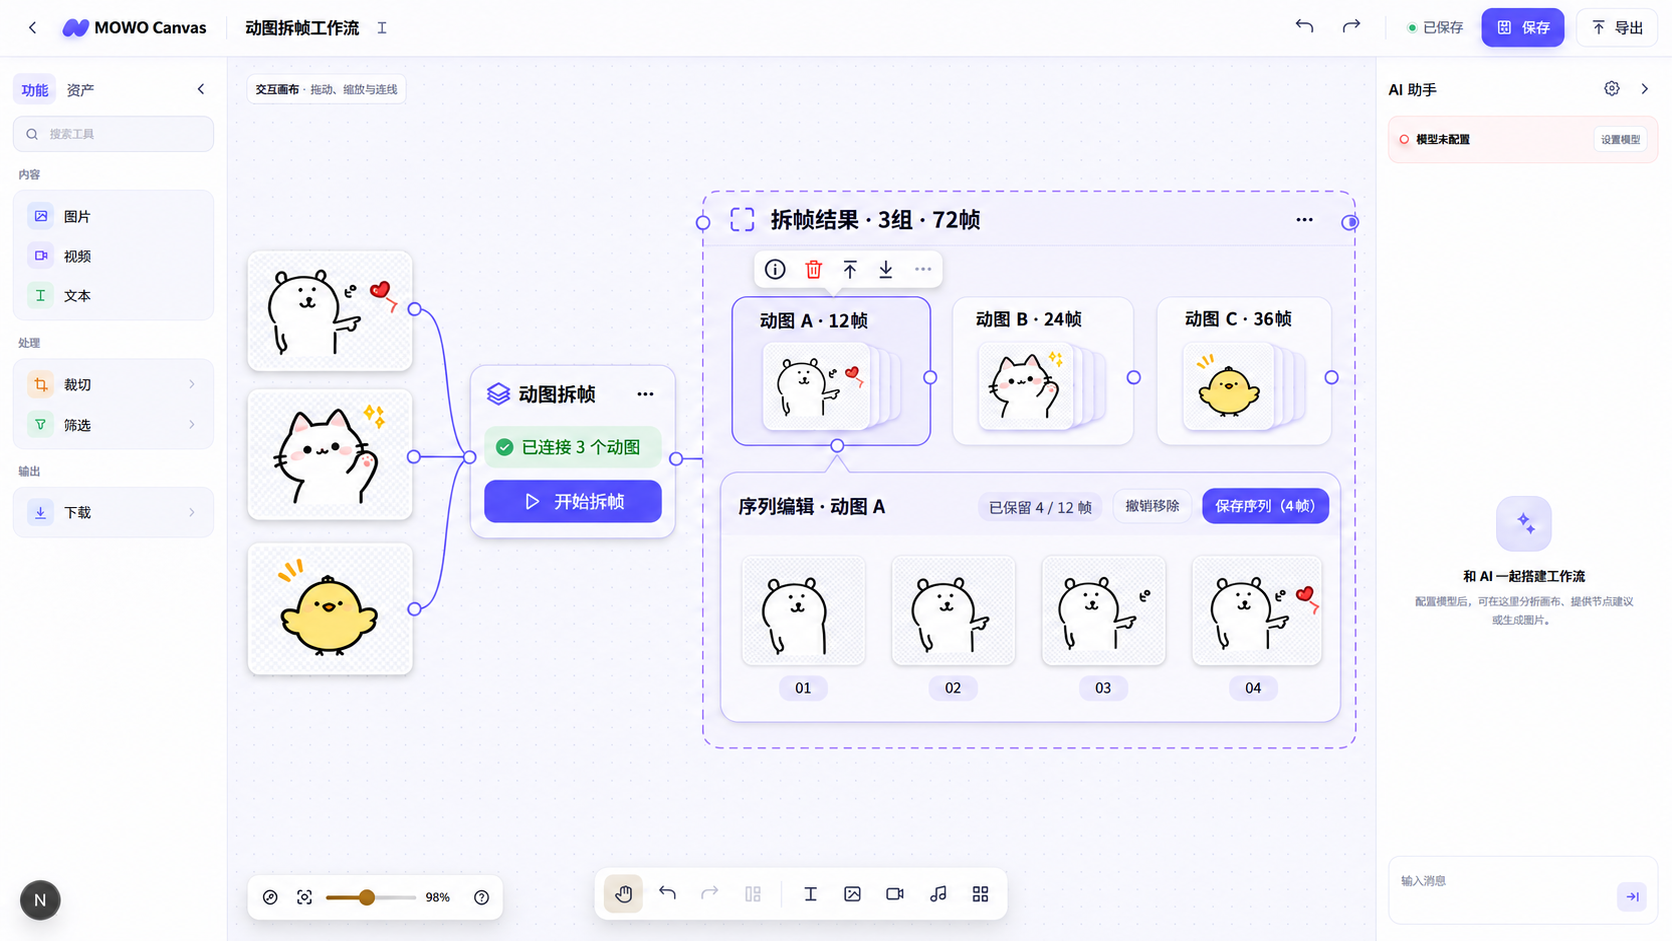
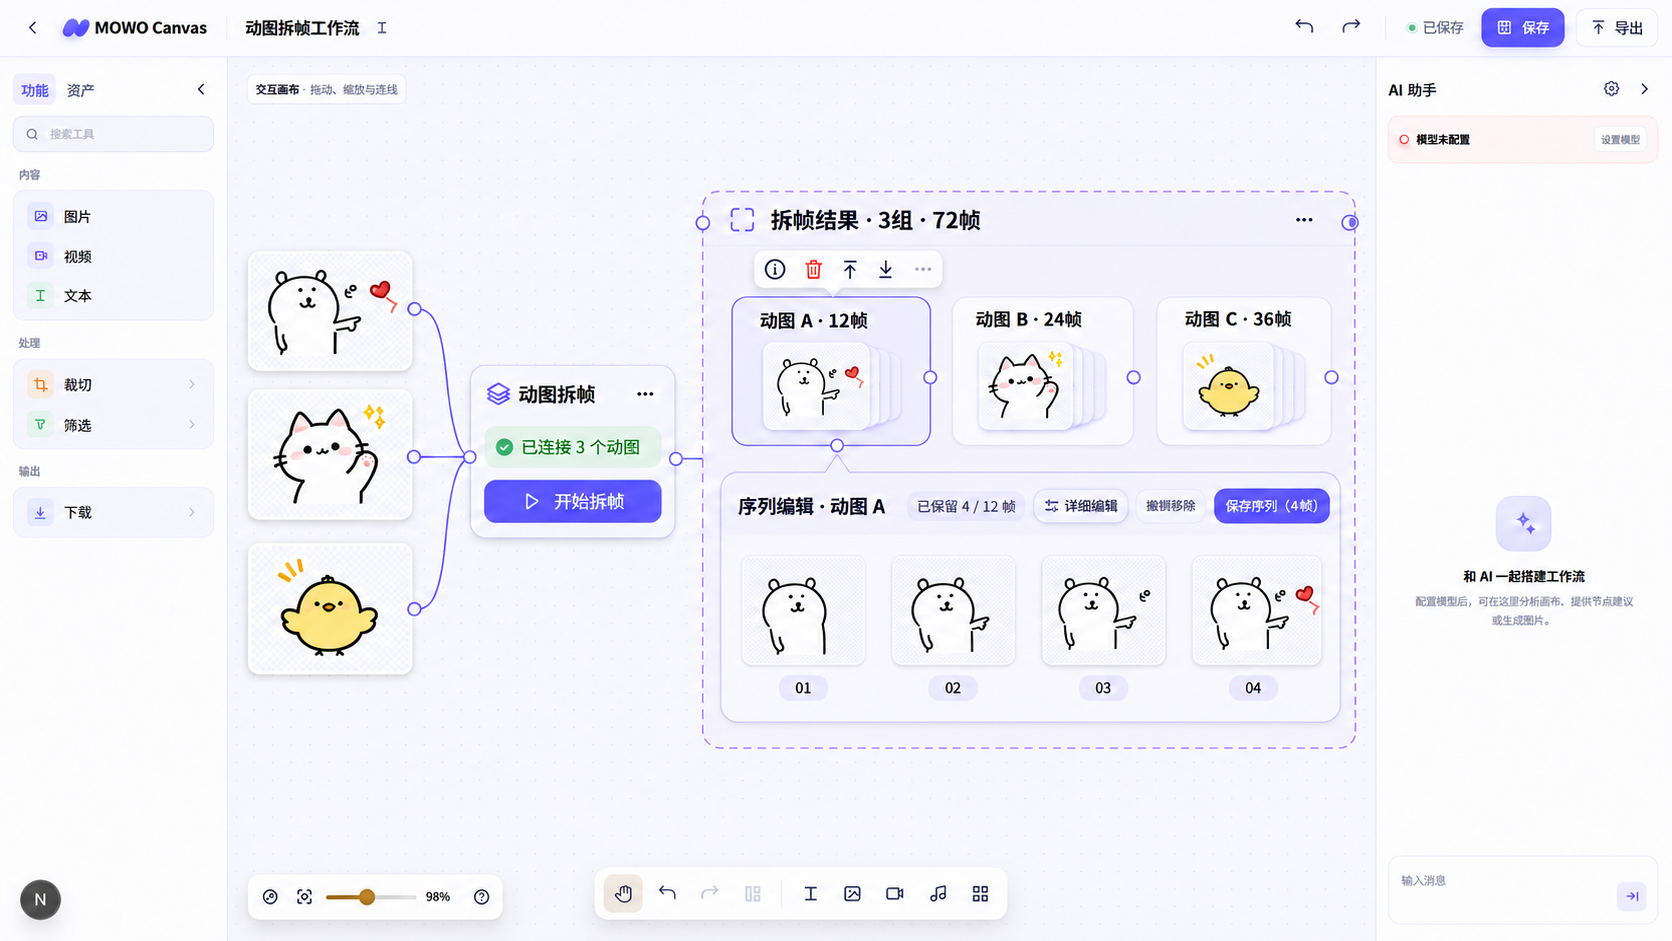
docs: refine frame sequence detailed editing

diff --git a/docs/requirements/features/animated-frame-extraction.md b/docs/requirements/features/animated-frame-extraction.md
@@ -24,9 +24,9 @@
 
 ### REQ-FRAME-003 逐帧查看与组切换
 
-点击结果模块内的堆叠序列帧组打开逐帧查看窗口。窗口采用左侧大预览、右侧帧缩略图结构，支持动画播放、当前帧静态查看、上一帧、下一帧，并显示帧序号、时间位置和停留时间。窗口顶部提供“上一组”和“下一组”，无需关闭窗口即可在本次拆解的多个动图结果之间切换。
+画布内共用序列编辑区提供“详细编辑”按钮，点击后打开逐帧查看窗口。窗口采用左侧大预览、右侧帧缩略图结构，打开后默认播放动画，不显示“动画播放/当前帧”切换。左侧预览下方提供上一帧、播放/暂停和下一帧；暂停即停留在当前帧，点击缩略图或逐帧按钮会定位并暂停。窗口显示帧序号、时间位置和停留时间，顶部提供“上一组”和“下一组”，无需关闭窗口即可在本次拆解的多个动图结果之间切换。
 
-验收：点击任意帧可在左侧查看；切换上一组或下一组后显示对应来源与帧列表；组边界和当前组序号清楚可见。
+验收：画布快速编辑区可以打开详细窗口；窗口中不存在播放模式切换条；打开后自动播放，暂停后画面保持不变；点击任意帧可在左侧静态查看并暂停；再次播放后从当前帧继续；切换上一组或下一组后显示对应来源与帧列表，组边界和当前组序号清楚可见。
 
 ### REQ-FRAME-004 拖入画布生成序列帧组
 
@@ -66,7 +66,7 @@
 
 ### REQ-FRAME-010 批量结果组与折叠编辑
 
-一次多动图拆帧生成一个外层批量结果组，每张来源动图对应其中一个序列帧组。折叠小组排列在外层组顶部，第一版一次只展开一个，并共用下方序列编辑区。切换小组时保持展开区和外层组高度稳定；连接端口固定在标题栏，不随展开内容移动。
+一次多动图拆帧生成一个外层批量结果组，每张来源动图对应其中一个序列帧组。折叠小组排列在外层组顶部，第一版一次只展开一个，并共用下方序列编辑区。快速编辑区提供“详细编辑”，负责打开独立逐帧查看窗口；切换小组时保持展开区和外层组高度稳定，连接端口固定在标题栏，不随展开内容移动。
 
 验收：外层组可以整体移动；折叠小组可以独立选择和拖出；展开一个小组后点击第二个，第一组内容被第二组替换且周围节点和连接线不发生明显跳动；普通布局组不显示数据端口，序列帧组和批量结果组显示与其内容类型匹配的端口。
 

diff --git a/docs/06-canvas-design.md b/docs/06-canvas-design.md
@@ -89,7 +89,9 @@
 
 动图拆帧的外层批量结果组使用比普通布局组更大的虚线框，顶部显示组数、总帧数和保存状态。内部序列帧组折叠时以第一帧封面、多层错位重影、来源名称、当前帧数和保存状态呈现。
 
-第一版一次只允许展开一个序列帧组。多个折叠小组排列在顶部，共用下方序列编辑区；选择另一个小组时复用同一编辑区，不先收起外层组，也不改变其整体高度。展开区显示真实帧节点，支持选择、多选、调整顺序、从序列移除和保存最终序列。
+第一版一次只允许展开一个序列帧组。多个折叠小组排列在顶部，共用下方序列编辑区；选择另一个小组时复用同一编辑区，不先收起外层组，也不改变其整体高度。画布内展开区属于快速编辑，显示真实帧节点并支持选择、多选、调整顺序、从序列移除、撤销和保存最终序列，同时提供“详细编辑”按钮。
+
+点击“详细编辑”打开逐帧查看窗口。窗口打开后默认播放动画，不提供“动画播放/当前帧”模式切换；预览区下方的播放/暂停按钮是唯一播放状态控制。暂停后预览自然停留在当前帧；点击某一帧缩略图或上一帧、下一帧时，定位到目标帧并暂停，继续点击播放按钮后从该帧继续。详细窗口保留上一组、下一组、帧序号、时间位置和停留时间，不重复画布内的批量删帧与排序工具。
 
 首次展开时，编辑区在约 180ms 内由上向下揭开并淡入；如果超出视口，只平移画布使其可见，不自动改变缩放。切换小组时，旧内容约 80ms 淡出，新内容轻微上移 8px 并在约 120ms 内淡入；收起时编辑区在约 180ms 内缩回。系统启用减少动态效果时取消位移并缩短或关闭动画。
 

diff --git a/docs/design/prototypes/animated-frame-extraction-v03.md b/docs/design/prototypes/animated-frame-extraction-v03.md
@@ -9,7 +9,7 @@
 
 - [布局组创建与成员关系](animated-frame-extraction-v03-layout-group.png)
 - [批量结果组与序列帧展开](animated-frame-extraction-v03-nested-groups.png)
-- [逐帧查看窗口](animated-frame-extraction-v03-viewer.png)（沿用已确认的 V02 视觉结构，仅统一到当前版本命名）
+- [逐帧查看窗口](animated-frame-extraction-v03-viewer.png)
 
 ## 已确认功能结构
 
@@ -19,6 +19,8 @@
 - 动图拆帧输出更大的批量结果组，其中每张来源动图是一个可折叠序列帧组。
 - 折叠小组排列在顶部，一次只展开一个，共用下方序列编辑区；切换小组时保持外层尺寸稳定。
 - 展开区支持帧选择、多选、调整顺序、从序列移除和“保存序列（N帧）”。
+- 展开区提供“详细编辑”按钮，打开独立逐帧查看窗口；画布展开区负责快速整理，窗口负责播放与逐帧检查。
+- 逐帧窗口默认播放，只保留一个播放/暂停按钮；不显示“动画播放/当前帧”切换条，暂停即查看当前帧。
 - 12 帧候选可以删到 4 帧后只把最终 4 个成员提交为正式序列，原始动图不变。
 
 ## 视觉评审重点
@@ -27,4 +29,5 @@
 - 外层批量结果组应明确大于内部小组，但仍属于画布内容，不做成弹窗或 Windows 文件夹。
 - 内部小组使用第一帧封面和多层重影；选中小组与下方共用编辑区应形成连续视觉关系。
 - 连接端口固定在标题栏，展开后连线不跳动。
+- 批量结果组原型中的快速编辑区应清楚显示“详细编辑”入口；逐帧窗口左侧预览上方不得出现播放模式切换。
 - 图中动画只通过状态变化表达；实际实现采用约 180ms 展开、80ms 淡出和 120ms 淡入。

diff --git a/PROJECT_STATUS.md b/PROJECT_STATUS.md
@@ -82,6 +82,7 @@
 - 已确认节点通过中心点进入组框内 12px 加入、越过外边缘 24px 移出；多选节点可以通过工具栏、底栏或 `Ctrl + G` 创建组。
 - 已确认批量结果组一次只展开一个内部序列帧组，顶部折叠小组共用下方编辑区，切换时保持外层高度和连接端口稳定。
 - 已确认拆帧采用临时草稿与正式提交两阶段保存：草稿可删帧并撤销，点击保存后只把最终保留帧写入正式集合，未提交草稿保留 24 小时。
+- 已确认画布内序列展开区属于快速编辑并提供“详细编辑”按钮；逐帧窗口默认播放，不设置“动画播放/当前帧”切换，暂停即查看当前帧。
 - 已确认历史画布资产通过项目关联复用，不能为当前项目重复保存相同物理文件。
 - 已确认数据目录首次运行时可选，默认建议 Documents；回收站保留 30 天，引用中的资产禁止删除。
 - 已确认资产导入后先进入当前项目资产区，不自动批量铺到画布；资产集合第一版逐项拖入。

diff --git a/docs/logs/current.md b/docs/logs/current.md
@@ -6,6 +6,8 @@
 
 ## 已完成
 
+- 2026-11-03：确认序列编辑分层：画布展开区负责快速删帧、排序、撤销和保存，并通过“详细编辑”打开逐帧窗口；详细窗口默认播放，以单一播放/暂停按钮控制，不再设置“动画播放/当前帧”切换。
+- 2026-11-03：更新 V03 批量结果组和逐帧查看原型：快速编辑区增加“详细编辑”，详细窗口移除播放模式切换并扩大预览区，中央暂停按钮表达默认正在播放。
 - 2026-11-03：确认布局组、序列帧组和批量结果组三类语义。布局组不提供数据端口；后两者分别传递单个序列和序列批次。
 - 2026-11-03：确认布局组的创建、加入和移出规则：多选可创建组，节点中心进入内边缘 12px 后加入，越过外边缘 24px 后移出，并提供工具栏稳定入口。
 - 2026-11-03：确认批量结果组采用顶部折叠小组与下方共用编辑区，一次只展开一个；切换复用展开区并保持外层高度和连接端口稳定。
